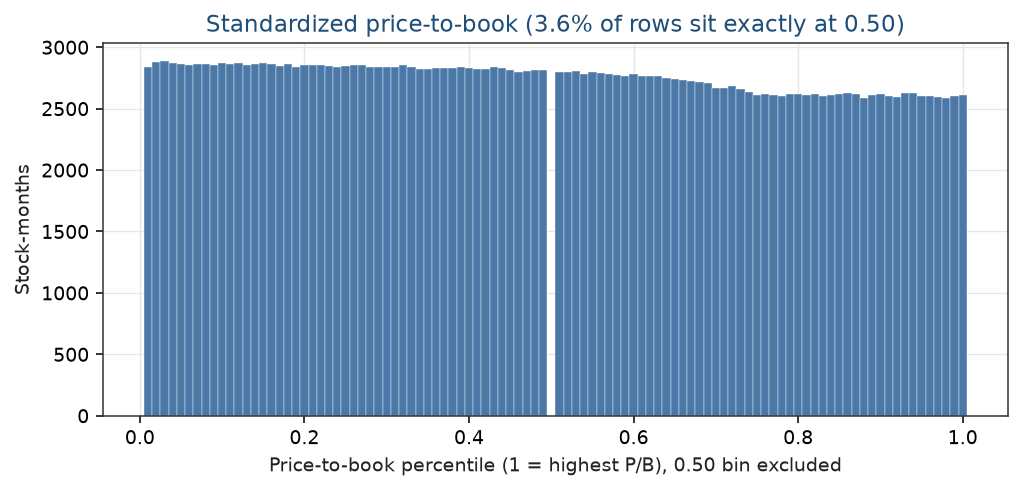
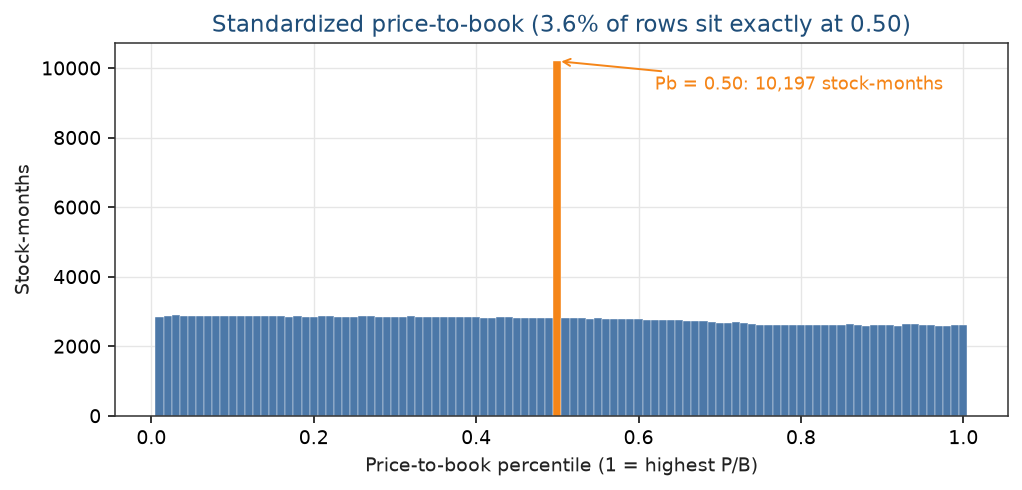
Show full P/B histogram with the 0.50 spike highlighted; tidy docstring

diff --git a/part2_1.py b/part2_1.py
@@ -168,9 +168,16 @@ def write_cleaning(df):
     save_fig(fig, "2a_coverage.png")
 
     at_half = np.isclose(df["Pb"], 0.5)
+    # Full histogram so the 0.50 spike is visible; the 0.50 bin is highlighted in orange.
     fig, ax = plt.subplots(figsize=(7.4, 3.6))
-    ax.hist(df.loc[~at_half, "Pb"], bins=np.arange(0.005, 1.015, 0.01), color=BLUE, edgecolor="white", linewidth=0.2)
-    ax.set_xlabel("Price-to-book percentile (1 = highest P/B), 0.50 bin excluded")
+    _, edges, patches = ax.hist(df["Pb"], bins=np.arange(0.005, 1.015, 0.01), color=BLUE, edgecolor="white", linewidth=0.2)
+    for patch, left in zip(patches, edges[:-1]):
+        if left < 0.5 < left + 0.01:
+            patch.set_facecolor(ORANGE)
+    n_half = int(at_half.sum())
+    ax.annotate(f"Pb = 0.50: {n_half:,} stock-months", xy=(0.5, n_half), xytext=(0.62, 0.92 * n_half),
+                color=ORANGE, fontsize=9, arrowprops=dict(arrowstyle="->", color=ORANGE, lw=1.0))
+    ax.set_xlabel("Price-to-book percentile (1 = highest P/B)")
     ax.set_ylabel("Stock-months")
     ax.set_title(f"Standardized price-to-book ({100 * at_half.mean():.1f}% of rows sit exactly at 0.50)")
     save_fig(fig, "2a_pb.png")
@@ -359,7 +366,9 @@ def write_sensitivity(results):
     write("2c_sensitivity.txt", lines)
 
 
-def write_exclusion(kept, dropped, hml):
+def write_exclusion(excluded, kept, hml):
+    """excluded: results with Pb = 0.50 rows dropped from the value portfolios (main case).
+    kept: results with those rows kept. Each is (returns, held, maxw)."""
     lines = [
         "Exhibit 2C — excluding versus keeping rows with Pb exactly 0.50 in the value portfolios",
         f"Winsorization: {MODES[MAIN].lower()}. The cap-weight proxy is the same in both cases. Percent except counts and correlation.",
@@ -367,8 +376,8 @@ def write_exclusion(kept, dropped, hml):
         "",
         f"{'treatment':<10}{'strategy':<18}{'compounded':>11}{'ann_vol':>9}{'te':>7}{'n_last':>8}{'maxw_last':>10}{'corr_hml':>10}",
     ]
-    hml = hml.reindex(kept[0].index)
-    for label, (returns, held, maxw) in (("excluded", kept), ("kept", dropped)):
+    hml = hml.reindex(excluded[0].index)
+    for label, (returns, held, maxw) in (("excluded", excluded), ("kept", kept)):
         for key in ("ew", "score", "score_cap"):
             excess = returns[key] - returns["mkt"]
             lines.append(
